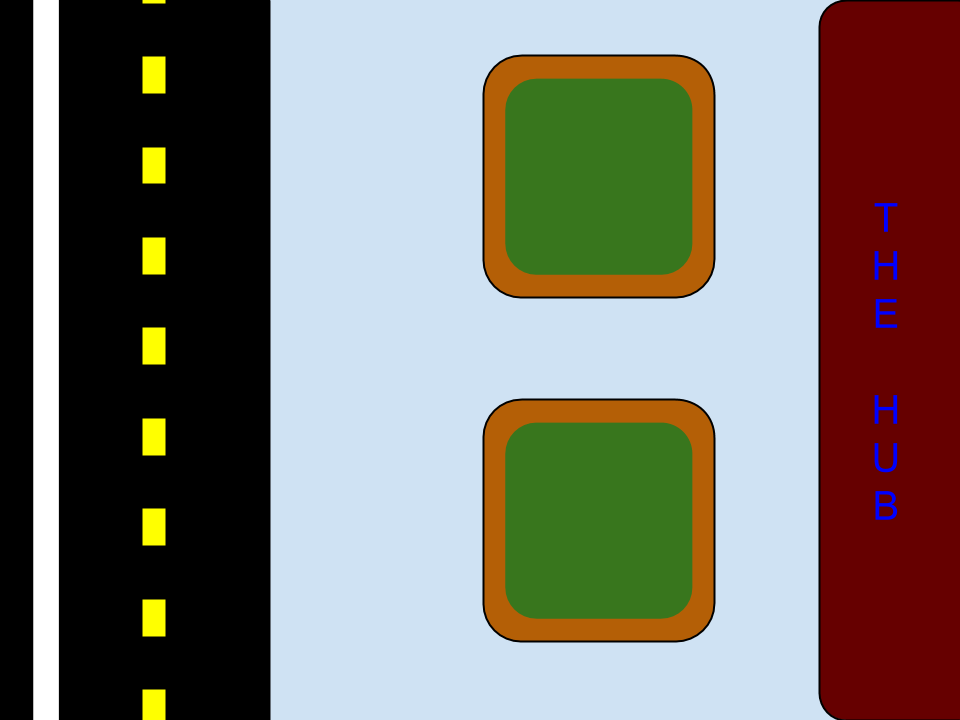
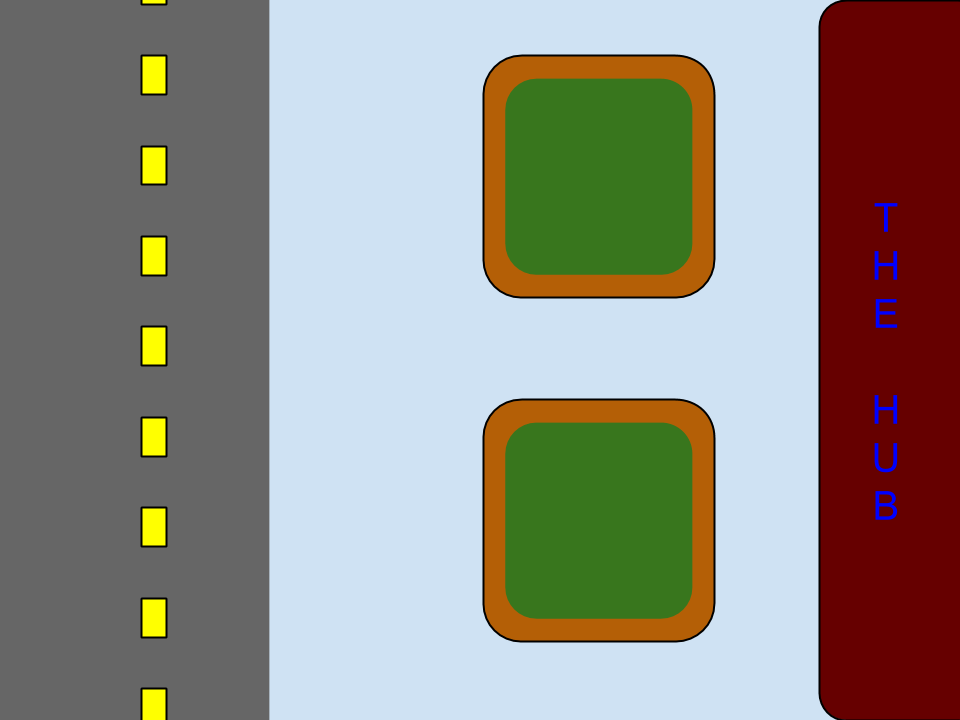
created a bus asset that drives onto the screen and lets passengers out (that get in your way), more sprites getting in the way, new hub background images

Changed region(s): [[0.0, 0.0, 0.2812, 1.0]]

diff --git a/src/com/gradugation/WaitInLineMinigame.java b/src/com/gradugation/WaitInLineMinigame.java
@@ -33,6 +33,9 @@ public class WaitInLineMinigame extends SimpleBaseGameActivity implements IOnSce
 	
 	private static int DEVICE_WIDTH;
 	private static int DEVICE_HEIGHT;
+	
+    private BitmapTextureAtlas bgTextureAtlas;
+    private ITextureRegion bgRegion;
 
 	private BitmapTextureAtlas characterTextureAtlas;
     public ITextureRegion character;
@@ -43,23 +46,27 @@ public class WaitInLineMinigame extends SimpleBaseGameActivity implements IOnSce
     private BitmapTextureAtlas engineerTextureAtlas;
     public ITextureRegion engineerTextureRegion;
     
-    private BitmapTextureAtlas bgTextureAtlas;
-    private ITextureRegion bgRegion;
+    private BitmapTextureAtlas busTextureAtlas;
+    public ITextureRegion busTextureRegion;
     
     private Sprite sprChar;
     private Sprite sprBg;
     private Sprite spr1;
     private Sprite spr2;
+    private Sprite sprBus;
     
     // Coordinates of sprites
     private float currentX = 275;
     private float currentY = 15;
     
-    private float spr1X = -50;
-    private float spr1Y = 210;
+    private float spr1X = 65;
+    private float spr1Y = 205;
     
     private float spr2X = 400;
     private float spr2Y = 120;
+    
+    private float sprBusX = 75;
+    private float sprBusY = 0;
     
     final Scene scene = new Scene();
     
@@ -91,30 +98,40 @@ public class WaitInLineMinigame extends SimpleBaseGameActivity implements IOnSce
 	@Override
 	protected void onCreateResources() throws IOException {
 		BitmapTextureAtlasTextureRegionFactory.setAssetBasePath("gfx/");
-		this.characterTextureAtlas = new BitmapTextureAtlas(this.getTextureManager(), 512, 512, 
-				TextureOptions.BILINEAR);
-		this.character = BitmapTextureAtlasTextureRegionFactory.createFromAsset(characterTextureAtlas, this, 
-				"splash2.png", 0, 0);
-		this.characterTextureAtlas.load();
-		
-		this.athleteTextureAtlas = new BitmapTextureAtlas(this.getTextureManager(), 72, 71, 
-				TextureOptions.BILINEAR);
-		this.athleteTextureRegion = BitmapTextureAtlasTextureRegionFactory.createFromAsset(athleteTextureAtlas, this, 
-				"athlete.png", 0, 0);
-		this.athleteTextureAtlas.load();
-		
-		this.engineerTextureAtlas = new BitmapTextureAtlas(this.getTextureManager(), 69, 72, 
-				TextureOptions.BILINEAR);
-		this.engineerTextureRegion = BitmapTextureAtlasTextureRegionFactory.createFromAsset(engineerTextureAtlas, this, 
-				"engineer.png", 0, 0);
-		this.engineerTextureAtlas.load();
-		
+		// Background
 		this.bgTextureAtlas = new BitmapTextureAtlas(this.getTextureManager(), 960, 720, 
 				TextureOptions.NEAREST_PREMULTIPLYALPHA);
 		this.bgRegion = BitmapTextureAtlasTextureRegionFactory.createFromAsset(bgTextureAtlas, this, 
 				"hub.png", 0, 0);
 		this.bgTextureAtlas.load();
 		
+		// Main character
+		this.characterTextureAtlas = new BitmapTextureAtlas(this.getTextureManager(), 512, 512, 
+				TextureOptions.BILINEAR);
+		this.character = BitmapTextureAtlasTextureRegionFactory.createFromAsset(characterTextureAtlas, this, 
+				"splash2.png", 0, 0);
+		this.characterTextureAtlas.load();
+		
+		// Athletes
+		this.athleteTextureAtlas = new BitmapTextureAtlas(this.getTextureManager(), 72, 71, 
+				TextureOptions.BILINEAR);
+		this.athleteTextureRegion = BitmapTextureAtlasTextureRegionFactory.createFromAsset(athleteTextureAtlas, this, 
+				"athlete.png", 0, 0);
+		this.athleteTextureAtlas.load();
+		
+		// Engineers
+		this.engineerTextureAtlas = new BitmapTextureAtlas(this.getTextureManager(), 69, 72, 
+				TextureOptions.BILINEAR);
+		this.engineerTextureRegion = BitmapTextureAtlasTextureRegionFactory.createFromAsset(engineerTextureAtlas, this, 
+				"engineer.png", 0, 0);
+		this.engineerTextureAtlas.load();
+		
+		// Bus
+		this.busTextureAtlas = new BitmapTextureAtlas(this.getTextureManager(), 214, 324, 
+				TextureOptions.BILINEAR);
+		this.busTextureRegion = BitmapTextureAtlasTextureRegionFactory.createFromAsset(busTextureAtlas, this, 
+				"bus.png", 0, 0);
+		this.busTextureAtlas.load();
 	}
 
 	@Override
@@ -131,19 +148,19 @@ public class WaitInLineMinigame extends SimpleBaseGameActivity implements IOnSce
 		
 		spr1 = new Sprite(spr1X, spr1Y, athleteTextureRegion, this.getVertexBufferObjectManager());
 		spr1.setScale(0.8f);
+		spr1.setVisible(false);
 		
 		spr2 = new Sprite(spr2X, spr2Y, engineerTextureRegion, this.getVertexBufferObjectManager());
 		spr2.setScale(0.8f);
+		
+		sprBus = new Sprite(sprBusX, sprBusY, busTextureRegion, this.getVertexBufferObjectManager());
+		sprBus.setScale(0.8f);
 		
 		scene.attachChild(sprBg);
 		scene.attachChild(spr1);
 		scene.attachChild(spr2);
 		scene.attachChild(sprChar);
-		
-//        scene.setBackground(new SpriteBackground(new Sprite(0, 0, DEVICE_WIDTH, DEVICE_HEIGHT, 
-//        		this.bgRegion, getVertexBufferObjectManager())));
-//
-//        scene.setPosition(0, 0);
+		scene.attachChild(sprBus);
 		
 		mHandler.post(mUpdateResults);
 
@@ -166,21 +183,53 @@ public class WaitInLineMinigame extends SimpleBaseGameActivity implements IOnSce
 
 			@Override
 			public void onUpdate(final float pSecondsElapsed) {
-				// Motion for sprite 1
-				spr1.registerEntityModifier(new MoveModifier(0.05f,
-						spr1X, spr1Y, spr1X + 2, spr1Y) {
-					@Override
-			    	protected void onModifierStarted(IEntity pItem) {
-			        	super.onModifierStarted(pItem);
+				if (sprBusY < 180) {
+					// Motion for bus
+					sprBus.registerEntityModifier(new MoveModifier(0.03f,
+							sprBusX, sprBusY, sprBusX, sprBusY + 3) {
+						@Override
+				    	protected void onModifierStarted(IEntity pItem) {
+				        	super.onModifierStarted(pItem);
+						}
+	
+				        @Override
+				        protected void onModifierFinished(IEntity pItem) {
+				        	sprBusX = sprBus.getX();
+				        	sprBusY = sprBus.getY();
+				            super.onModifierFinished(pItem);
+				        }
+					});
+				}
+				else {
+					spr1.setVisible(true);
+					// When sprite 1 is done exiting the bus off the screen, have another "sprite 1"
+					// exit the bus
+					if (spr1X > CAMERA_WIDTH && currentY < CAMERA_HEIGHT)  {
+						spr1X = 65;
+						spr1Y = 220;
 					}
-
-			        @Override
-			        protected void onModifierFinished(IEntity pItem) {
-			        	spr1X = spr1.getX();
-			        	spr1Y = spr1.getY();
-			            super.onModifierFinished(pItem);
-			        }
-				});
+					// Motion for sprite 1
+					spr1.registerEntityModifier(new MoveModifier(0.04f,
+							spr1X, spr1Y, spr1X + 2, spr1Y) {
+						@Override
+				    	protected void onModifierStarted(IEntity pItem) {
+				        	super.onModifierStarted(pItem);
+						}
+	
+				        @Override
+				        protected void onModifierFinished(IEntity pItem) {
+				        	spr1X = spr1.getX();
+				        	spr1Y = spr1.getY();
+				            super.onModifierFinished(pItem);
+				        }
+					});
+				}
+				// When sprite 2 is done walking to the bus, have another "sprite 2"
+				// walk from the top right of the screen
+				if (spr2X < 88 && currentY < CAMERA_HEIGHT)  {
+					spr2X = CAMERA_WIDTH + 100;
+					spr2Y = 285;
+				}
 				// Motion for sprite 2
 				spr2.registerEntityModifier(new MoveModifier(0.03f,
 						spr2X, spr2Y, spr2X - 2, spr2Y) {
